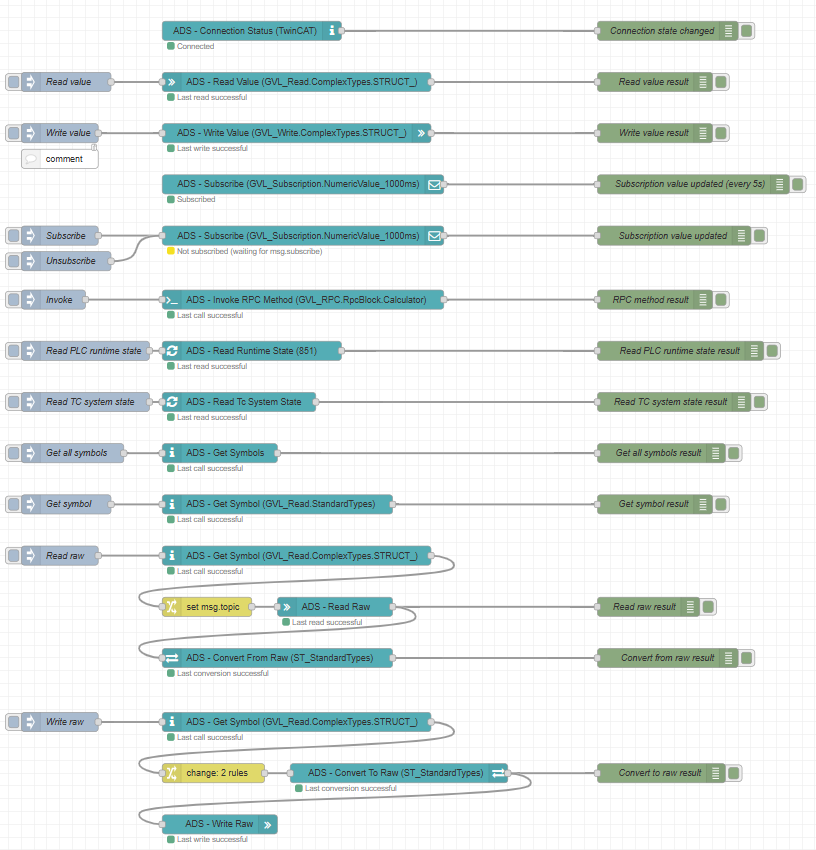
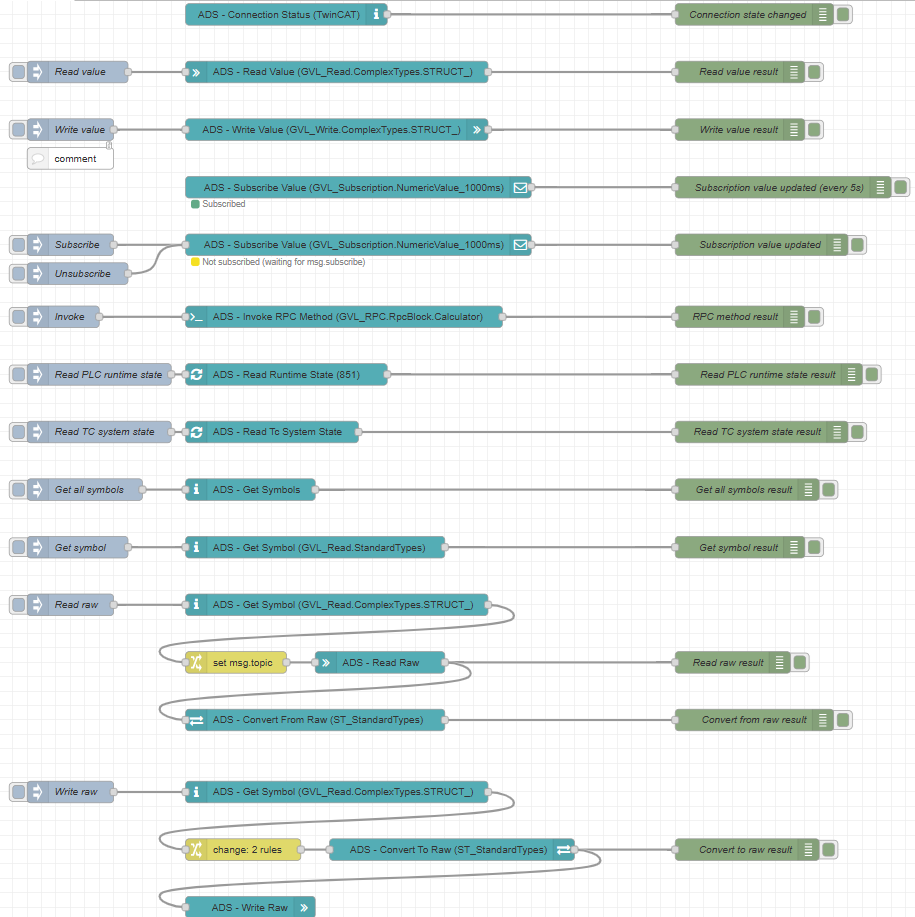
Development
- README
- Rename ads-client-subscribe -> ads-client-subscribe-value

diff --git a/src/ads-client-subscribe-value.html b/src/ads-client-subscribe-value.html
@@ -1,6 +1,6 @@
 <script type="text/javascript">
-  RED.nodes.registerType("ads-client-subscribe", {
-    paletteLabel: "ADS - Subscribe",
+  RED.nodes.registerType("ads-client-subscribe-value", {
+    paletteLabel: "ADS - Subscribe Value",
     category: "TwinCAT ADS",
     icon: "font-awesome/fa-envelope-o",
     align: "right",
@@ -29,13 +29,13 @@
       inputs: { value: 0 },
     },
     label: function () {
-      if (this.connection === null) return `${this.name || `ADS - Subscribe`} (*Not configured*)`;
+      if (this.connection === null) return `${this.name || `ADS - Subscribe Value`} (*Not configured*)`;
 
       if (this.name) {
         return this.name;
       }
 
-      return `ADS - Subscribe (${this.variableName === "" ? `msg.topic` : `${this.variableName}`})`;
+      return `ADS - Subscribe Value (${this.variableName === "" ? `msg.topic` : `${this.variableName}`})`;
     },
     oneditprepare: function () {
       //Stuff that is done when properties panel is opened
@@ -59,7 +59,7 @@
 </script>
 
 <!-- Properties -->
-<script type="text/html" data-template-name="ads-client-subscribe">
+<script type="text/html" data-template-name="ads-client-subscribe-value">
   <div class="form-row">
       <label for="node-input-name"><i class="fa fa-tag"></i> Name</label>
       <input type="text" id="node-input-name" placeholder="Name (optional)">
@@ -115,7 +115,7 @@
 </script>
 
 <!-- Help -->
-<script type="text/html" data-help-name="ads-client-subscribe">
+<script type="text/html" data-help-name="ads-client-subscribe-value">
     <p>
       Subscribes to given variable to receive notifications.
     </p>

diff --git a/src/ads-client-subscribe-value.js b/src/ads-client-subscribe-value.js
@@ -275,5 +275,5 @@ module.exports = function (RED) {
     this.connection.eventEmitter.on("connected", (connected) => onConnectedChange(connected));
   }
 
-  RED.nodes.registerType("ads-client-subscribe", AdsClientSubscribe);
+  RED.nodes.registerType("ads-client-subscribe-value", AdsClientSubscribe);
 };

diff --git a/README.md b/README.md
@@ -62,25 +62,23 @@ Each node has its own built-in documentation - see the help under each node in N
 # Available nodes
 
 **NOTE:**
-At the moment, not all ads-client features are converted to the Node-RED nodes.
+At the moment, not all ads-client features are converted to the Node-RED nodes. This will hopefully improve in the future - contributions are welcome!
 
-This will hopefully improve in the future - contributions are welcome!
-
-| Node                      | Description                                                                                             | Equivalent in [ads-client](https://github.com/jisotalo/ads-client)                                               |
-| ------------------------- | ------------------------------------------------------------------------------------------------------- | ---------------------------------------------------------------------------------------------------------------- |
-| ADS - Connection Status   | Reports status changes of the selected ADS connection.                                                  | [`connect`, `disconnect` and `reconnect` events](https://jisotalo.fi/ads-client/interfaces/AdsClientEvents.html) |
-| ADS - Read Value          | Reads any kind of variable by given variable name.                                                      | [`readValue()`](https://jisotalo.fi/ads-client/classes/Client.html#readValue)                                    |
-| ADS - Write Value         | Writes given value to any kind of variable by given variable name.                                      | [`writeValue()`](https://jisotalo.fi/ads-client/classes/Client.html#writeValue)                                  |
-| ADS - Subscribe           | Subscribes to given variable to receive notifications.                                                  | [`subscribe()`](https://jisotalo.fi/ads-client/classes/Client.html#subscribe)                                    |
-| ADS - Invoke RPC Method   | Calls a function block method with parameters using RPC (remote procedure call).                        | [`invokeRpcMethod()`](https://jisotalo.fi/ads-client/classes/Client.html#invokeRpcMethod)                        |
-| ADS - Read Runtime State  | Reads TwinCAT PLC runtime state (run, stop) from given ADS port.                                        | [`readPlcRuntimeState()`](https://jisotalo.fi/ads-client/classes/Client.html#readPlcRuntimeState)                |
-| ADS - Read TcSystem State | Reads TwinCAT System Manager state from target (using ADS port 10000).                                  | [`readTcSystemState()`](https://jisotalo.fi/ads-client/classes/Client.html#readTcSystemState)                    |
-| ADS - Get Symbols         | Returns all symbols from the target PLC runtime.                                                        | [`getSymbols()`](https://jisotalo.fi/ads-client/classes/Client.html#getSymbols)                                  |
-| ADS - Get Symbol          | Returns a symbol object for given variable path, such as `GVL_Test.ExampleStruct`.                      | [`getSymbol()`](https://jisotalo.fi/ads-client/classes/Client.html#getSymbol)                                    |
-| ADS - Read Raw            | Reads (raw byte) data from PLC by given index group, index offset and size.                             | [`readRaw()`](https://jisotalo.fi/ads-client/classes/Client.html#readRaw)                                        |
-| ADS - Write Raw           | Writes (raw byte) buffer data to PLC by given index group and index offset.                             | [`writeRaw()`](https://jisotalo.fi/ads-client/classes/Client.html#writeRaw)                                      |
-| ADS - Convert To Raw      | Converts given Javascript object/variable to raw Buffer data by given data type (like REAL, ST_Struct). | [`convertToRaw()`](https://jisotalo.fi/ads-client/classes/Client.html#convertToRaw)                              |
-| ADS - Convert From Raw    | Converts given raw data (byte Buffer) to Javascript object by given data type (like REAL, ST_Struct).   | [`convertFromRaw()`](https://jisotalo.fi/ads-client/classes/Client.html#convertFromRaw)                          |
+| Node                      | Description                                                                                                                                                     | Equivalent in [ads-client](https://github.com/jisotalo/ads-client)                                               |
+| ------------------------- | --------------------------------------------------------------------------------------------------------------------------------------------------------------- | ---------------------------------------------------------------------------------------------------------------- |
+| ADS - Connection Status   | Reports status changes of the selected ADS connection.                                                                                                          | [`connect`, `disconnect` and `reconnect` events](https://jisotalo.fi/ads-client/interfaces/AdsClientEvents.html) |
+| ADS - Read Value          | Reads variable's value from the target system by a variable path (such as `GVL_Test.ExampleStruct`) and returns the value as a Javascript object.               | [`readValue()`](https://jisotalo.fi/ads-client/classes/Client.html#readValue)                                    |
+| ADS - Write Value         | Writes variable's value to the target system by a variable path (such as `GVL_Test.ExampleStruct`). Converts the value from a Javascript object to a raw value. | [`writeValue()`](https://jisotalo.fi/ads-client/classes/Client.html#writeValue)                                  |
+| ADS - Subscribe Value     | Subscribes to value change notifications (ADS notifications) by a variable path, such as `GVL_Test.ExampleStruct`.                                              | [`subscribeValue()`](https://jisotalo.fi/ads-client/classes/Client.html#subscribeValue)                          |
+| ADS - Invoke RPC Method   | Invokes a function block RPC method on the target system.                                                                                                       | [`invokeRpcMethod()`](https://jisotalo.fi/ads-client/classes/Client.html#invokeRpcMethod)                        |
+| ADS - Read Runtime State  | Reads target PLC runtime state (`Run`, `Stop` etc.)                                                                                                             | [`readPlcRuntimeState()`](https://jisotalo.fi/ads-client/classes/Client.html#readPlcRuntimeState)                |
+| ADS - Read TcSystem State | Reads target TwinCAT system state from ADS port 10000 (usually `Run` or `Config`).                                                                              | [`readTcSystemState()`](https://jisotalo.fi/ads-client/classes/Client.html#readTcSystemState)                    |
+| ADS - Get Symbols         | Returns all symbols from the target PLC runtime.                                                                                                                | [`getSymbols()`](https://jisotalo.fi/ads-client/classes/Client.html#getSymbols)                                  |
+| ADS - Get Symbol          | Returns a symbol object for given variable path (such as `GVL_Test.ExampleStruct`).                                                                             | [`getSymbol()`](https://jisotalo.fi/ads-client/classes/Client.html#getSymbol)                                    |
+| ADS - Read Raw            | Reads raw data from the target system by a raw ADS address (index group, index offset and data length).                                                         | [`readRaw()`](https://jisotalo.fi/ads-client/classes/Client.html#readRaw)                                        |
+| ADS - Write Raw           | Writes raw data to the target system by a raw ADS address (index group, index offset and data length).                                                          | [`writeRaw()`](https://jisotalo.fi/ads-client/classes/Client.html#writeRaw)                                      |
+| ADS - Convert To Raw      | Converts a Javascript object to raw data by using the provided data type.                                                                                       | [`convertToRaw()`](https://jisotalo.fi/ads-client/classes/Client.html#convertToRaw)                              |
+| ADS - Convert From Raw    | Converts raw data to a Javascript object by using the provided data type.                                                                                       | [`convertFromRaw()`](https://jisotalo.fi/ads-client/classes/Client.html#convertFromRaw)                          |
 
 # Getting started
 After you have installed the package and restarted Node-RED, you should see ADS nodes in the node list.
